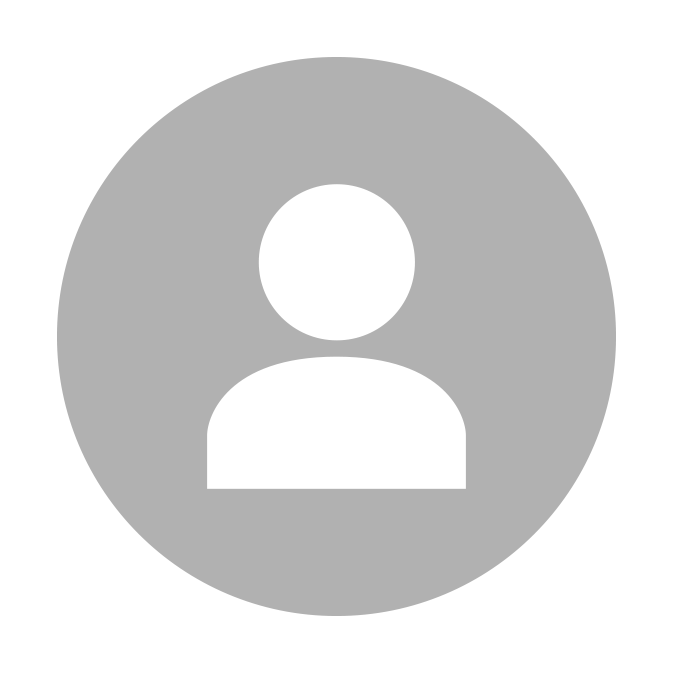
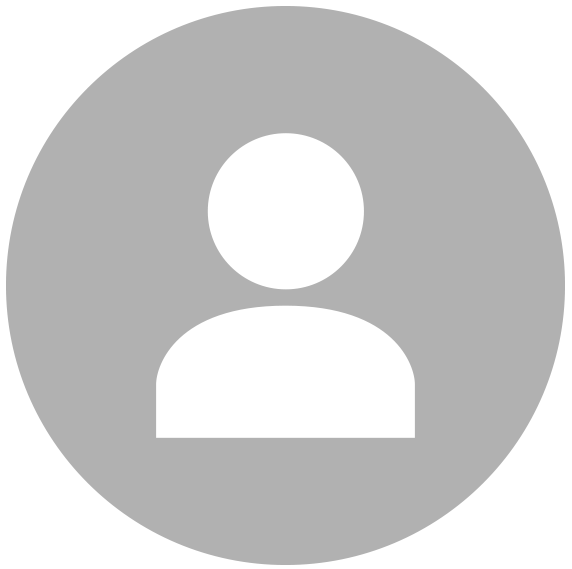
fix: 헤더에서 프로필사진 보이도록 수정

diff --git a/src/components/layout/header/index.js b/src/components/layout/header/index.js
@@ -3,9 +3,11 @@ import { Link, useNavigate } from 'react-router-dom';
 import styled from 'styled-components';
 import { useRecoilState, useRecoilValue, useSetRecoilState } from 'recoil';
 import { FaUserAlt, FaBars, FaTimes } from 'react-icons/fa';
+import { getMyProfileImg } from '../../../api';
 import { modalVisibleState, userIdState } from '../../../atoms';
 import Nav from '../../nav';
 import Logo from '../../../images/logo/admin_logo2.svg';
+import profileImg from '../../../images/profile.png';
 import * as Styled from './styled';
 
 const NavImg = styled.div`
@@ -40,6 +42,15 @@ const NavBox = styled.div`
         background-color: #e5e5e5;
     }
 `;
+const Avata = styled.img`
+    width: 30px;
+    height: 30px;
+    border-radius: 50%;
+    @media screen and (max-width: 1023px) {
+        width: 24px;
+        height: 24px;
+    }
+`;
 
 function Header() {
     const navigate = useNavigate();
@@ -48,10 +59,15 @@ function Header() {
     const [tapVisible, setTapVisible] = React.useState(false);
     const isLoggined = useRecoilValue(userIdState);
     const setUserState = useSetRecoilState(userIdState);
+    const [myImg, setMyImg] = React.useState(profileImg);
     const logoutClick = () => {
         localStorage.clear();
         setUserState({ userId: '' });
     };
+
+    React.useEffect(() => {
+        getMyProfileImg(setMyImg, profileImg);
+    }, [isLoggined]);
 
     return (
         <Styled.Container modalVisible={modalVisible} userToggled={userToggled}>
@@ -74,8 +90,8 @@ function Header() {
                             </Link>
                         ) : (
                             <NavImg onClick={() => setTapVisible(!tapVisible)}>
-                                <FaUserAlt size={20} />
-
+                                {/* <FaUserAlt size={20} /> */}
+                                <Avata src={myImg} />
                                 <NavTap visible={tapVisible}>
                                     <NavBox>
                                         <Link to='/mypage'>프로필</Link>

diff --git a/src/api.js b/src/api.js
@@ -432,6 +432,24 @@ export async function getMyData(setMyData, navigate) {
             navigate('/');
         });
 }
+
+export async function getMyProfileImg(setImg, profileImg) {
+    axios({
+        method: 'get',
+        url: `${url}/members/me`,
+        headers: {
+            Authorization: `Bearer ${token}`,
+        },
+    })
+        .then((response) => {
+            const data = response.data.data;
+            setImg(data.profileImage ? data.profileImage.fileUrl : profileImg);
+        })
+        .catch((error) => {
+            console.log(error);
+        });
+}
+
 export function fetchStudentList(setStudentList) {
     axios({
         method: 'get',
